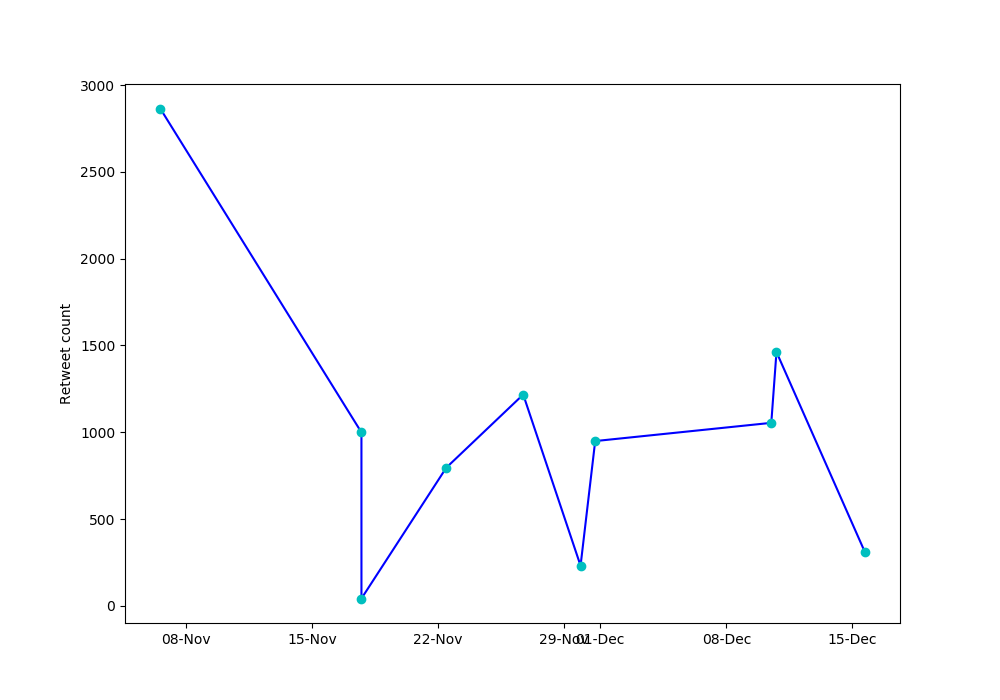
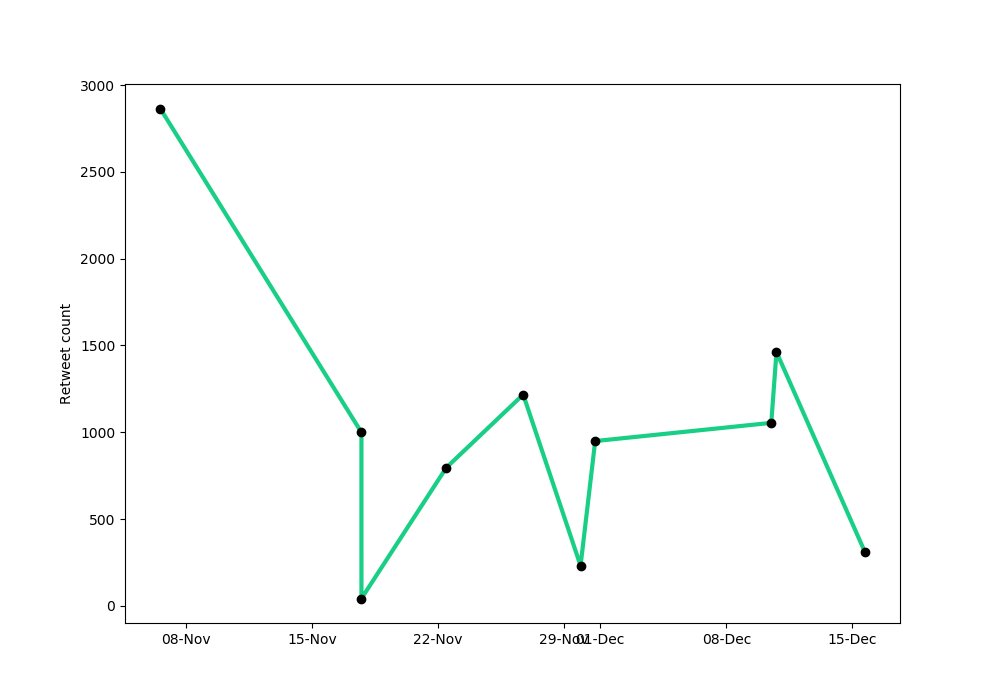
#79

diff --git a/web-app/app/templates/dashboard/trial.html b/web-app/app/templates/dashboard/trial.html
@@ -5,14 +5,14 @@
 {% block main %}
 
 <div class = "row50">
-	<div class = "column left">
-		<div class = "content1">
-			<div class = "content1 title">
-				<h2 class="about-us">Title 1</h2>
-			</div>
-		 	<div class="body1 about-us">
-		 		<img class = "graph-big" src="{{ url_for('static', filename='images/RTplot.png') }}" >		
-	 			<p class="about-graph"> Your mean is {{mean_rt}}RT</p> 
+	<div class = "column left2">
+		<div class = "content2 evolution">
+			<h2 class="title evolution">Evolution of your likes</h2>
+		 	<div class="body1 about-us new">
+		 		<div class="graph-big">
+		 			<img class = "graph-big" src="{{ url_for('static', filename='images/RTplot.png') }}" >		
+		 		</div>
+	 			<p class="about-graph retweet"> <img class = "barplot" src="{{ url_for('static', filename='images/barplot.png') }}" ><strong class="average">{{mean_rt}} RT</strong> on average! Wow!</p> 
 	 			<div>
 	 				<p class="top tweet"> Your most retweeted tweet </p>
 	 				<div class="row20">
@@ -30,17 +30,27 @@
         </div>
     </div>
 		 		
-	<div class = "column right">
-		<div class = "content1">
-			<div class = "content1 title">
-				<h2 class="about-us">Title 2</h2>
-			</div>
-		 	<div class="body1 about-us new">
-		 		<img class = "graph-big" src="{{ url_for('static', filename='images/FCplot.png') }}" >		
-	 			<p class="about-graph"> This is some motherfucking text </p> 
-	 			<p class="about-graph"> Your mean is{{mean_fav}}FAV</p> 
-	 			<p class="about-graph"> Your best tweet has accounted for {{max_fav}}FAV </p>
-	 			<p class="top tweet"> This is your best tweet {{text_fav}} </p>
+	<div class = "column right2">
+		<div class = "content2 evolution">
+			<h2 class="title evolution">Evolution of your retweets</h2>
+			<div class="body1 about-us new">
+		 		<div class="graph-big">
+		 			<img class = "graph-big" src="{{ url_for('static', filename='images/FCplot.png') }}" >		
+		 		</div>
+	 			<p class="about-graph likes"> <strong class="average"><img class = "barplot" src="{{ url_for('static', filename='images/barplot.png') }}" >{{mean_fav}} likes</strong> on average! Wow!</p> 
+	 			<div>
+	 				<p class="top tweet"> Your most liked tweet </p>
+	 				<div class="row20">
+	 					<div class="col levo">
+	 						<div class = "tweet evol">
+	 							<p class="tweet"> {{text_fav}}</p>
+	 						</div>
+	 					</div>
+	 					<div class = "col revo">
+	 						<p class="number"> {{max_fav}} <img src="{{ url_for('static', filename='images/Like.png') }}" class="L"></p>
+	 					</div>
+	 				</div>
+	 			</div>
 	 		</div>
        </div>
     </div>

diff --git a/web-app/app/static/css/homepage.css b/web-app/app/static/css/homepage.css
@@ -182,7 +182,14 @@ a.get-started {
 }
 
 .left2 {
+	width: 50%;
+}
+
+.left3 {
 	margin-left: 30%;
+}
+.right2 {
+	width: 50%;
 }
 
 .filled {
@@ -428,6 +435,11 @@ i {
 	margin: auto;
 	background-color: rgb(56,134,204);
 }
+.content2 {
+	width: 90%;
+	margin: auto; 
+}
+
 
 .row50:after {	
 	content: "";
@@ -570,11 +582,16 @@ h2.about-us {
 }
 
 .graph-big {
-    height: 60%;
-	width: 80%;
-	display: block;
-	margin: 7px auto 7px auto;
-    }
+    width: 100%;
+    height: 100%;
+    overflow: hidden;
+}
+ 
+.graph-big img {
+   	width: 100%;
+    height: 100%;
+    margin: -50px 0 -25px 0;
+}
 
 .new {
 	background-color: white; 
@@ -583,6 +600,13 @@ h2.about-us {
 .evol {
 	width: 80%;
 	margin: auto;
+}
+
+h2.evolution {
+	width: 50%;
+	margin: auto;
+	text-align: center;
+	text-decoration: underline;
 }
 
 .top {
@@ -599,22 +623,32 @@ h2.about-us {
 	float: left;
 	width: 30%;
 	text-align: center;
+	font-size: 20px;
 }
-/*
 
-.row20 {
-	width: 70%;
+p.about-graph {
+	text-align: center;
+	border-style: solid;
 	margin: auto;
-}
-.row20:after {
-	content:"";
-	display: table;
-	clear:both;
+	max-width: 40%;
+	border-radius: 5px;
 }
 
-p.number {
-	text-align: left;
-	width: 40%;
-	max-width: 40%;
-	background-color: red;
-}*/
+.retweet {
+	background-color: rgb(25, 207, 134);
+}
+
+.likes {
+	background-color: rgb(232,28,79);
+}
+
+strong.average {
+	font-size: 20px;
+}
+
+.barplot {
+	width: 20px;
+	height: 20px;
+	margin-right: 3%;
+	margin-bottom: -1%;
+}

diff --git a/web-app/app/templates/prediction/submit.html b/web-app/app/templates/prediction/submit.html
@@ -7,7 +7,7 @@
 {% block main %}
   <div class = "row">
     <div class = "column left" id="prediction-div">
-      <div class = "left2">
+      <div class = "left3">
         <form method="post" class="form-horizontal">
         <legend class="span5">{{ box }}</legend>
         {{ edit_field(form.text, rows = "6", class = "span5", placeholder="Prediction text.") }}

diff --git a/web-app/app/functions.py b/web-app/app/functions.py
@@ -136,21 +136,21 @@ def get_plot_images(username):
     RT = [int(rt) for rt in RT]
     
     plt.figure(figsize=(10,7))
-    plt.plot(data, FC, "b")
-    plt.plot(data, FC, "oc")
+    plt.plot(data, FC, color=(232/255,28/255,79/255), linewidth=3)
+    plt.plot(data, FC, "ok")
     cur_axes = plt.gca()
     cur_axes.xaxis.set_major_formatter(mdates.DateFormatter("%d-%b"))
     plt.ylabel('Favorite Count')
     plt.savefig('app/static/images/FCplot.png', transparent=True)
     
     plt.figure(figsize=(10,7))
-    plt.plot(data, RT, "b")
-    plt.plot(data, RT, "oc")
+    plt.plot(data, RT, color=(25/255, 207/255, 134/255), linewidth=3)
+    plt.plot(data, RT, "ok")
     cur_axes = plt.gca()
     cur_axes.xaxis.set_major_formatter(mdates.DateFormatter("%d-%b"))
-    cur_axes.set_facecolor("b")
+    cur_axes.set_facecolor("w")
     plt.ylabel('Retweet count')
-    plt.savefig('app/static/images/RTplot.png', transparent = True)
+    plt.savefig('app/static/images/RTplot.png')
     return
 
 def load_model(filename):
